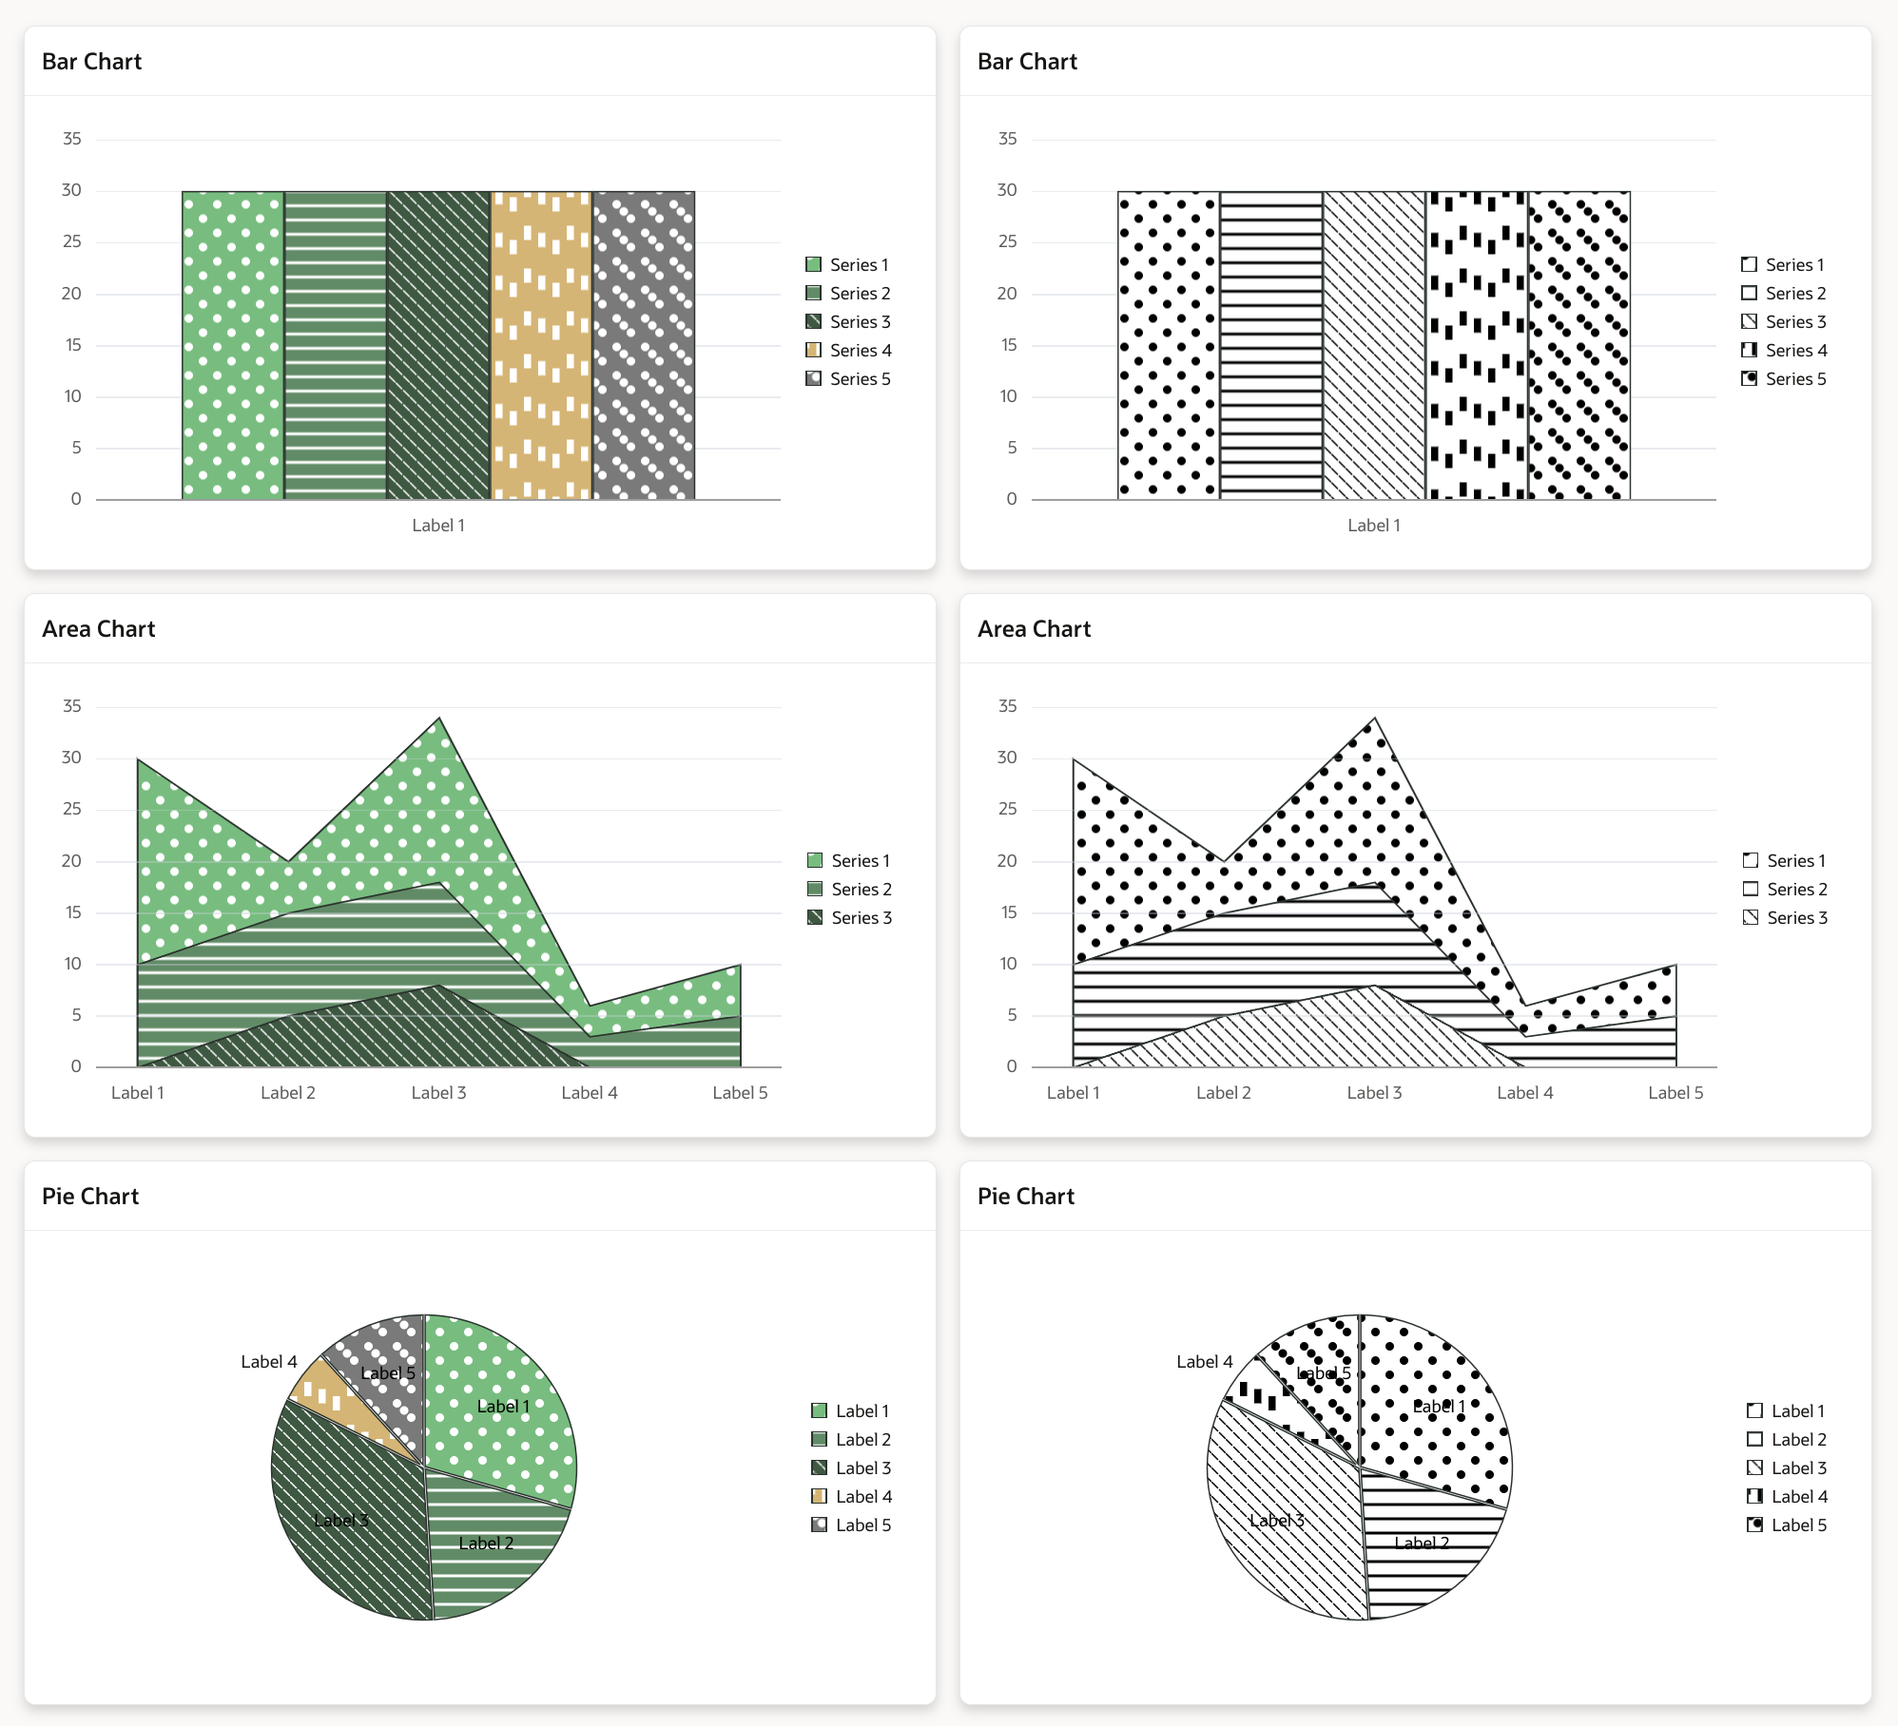
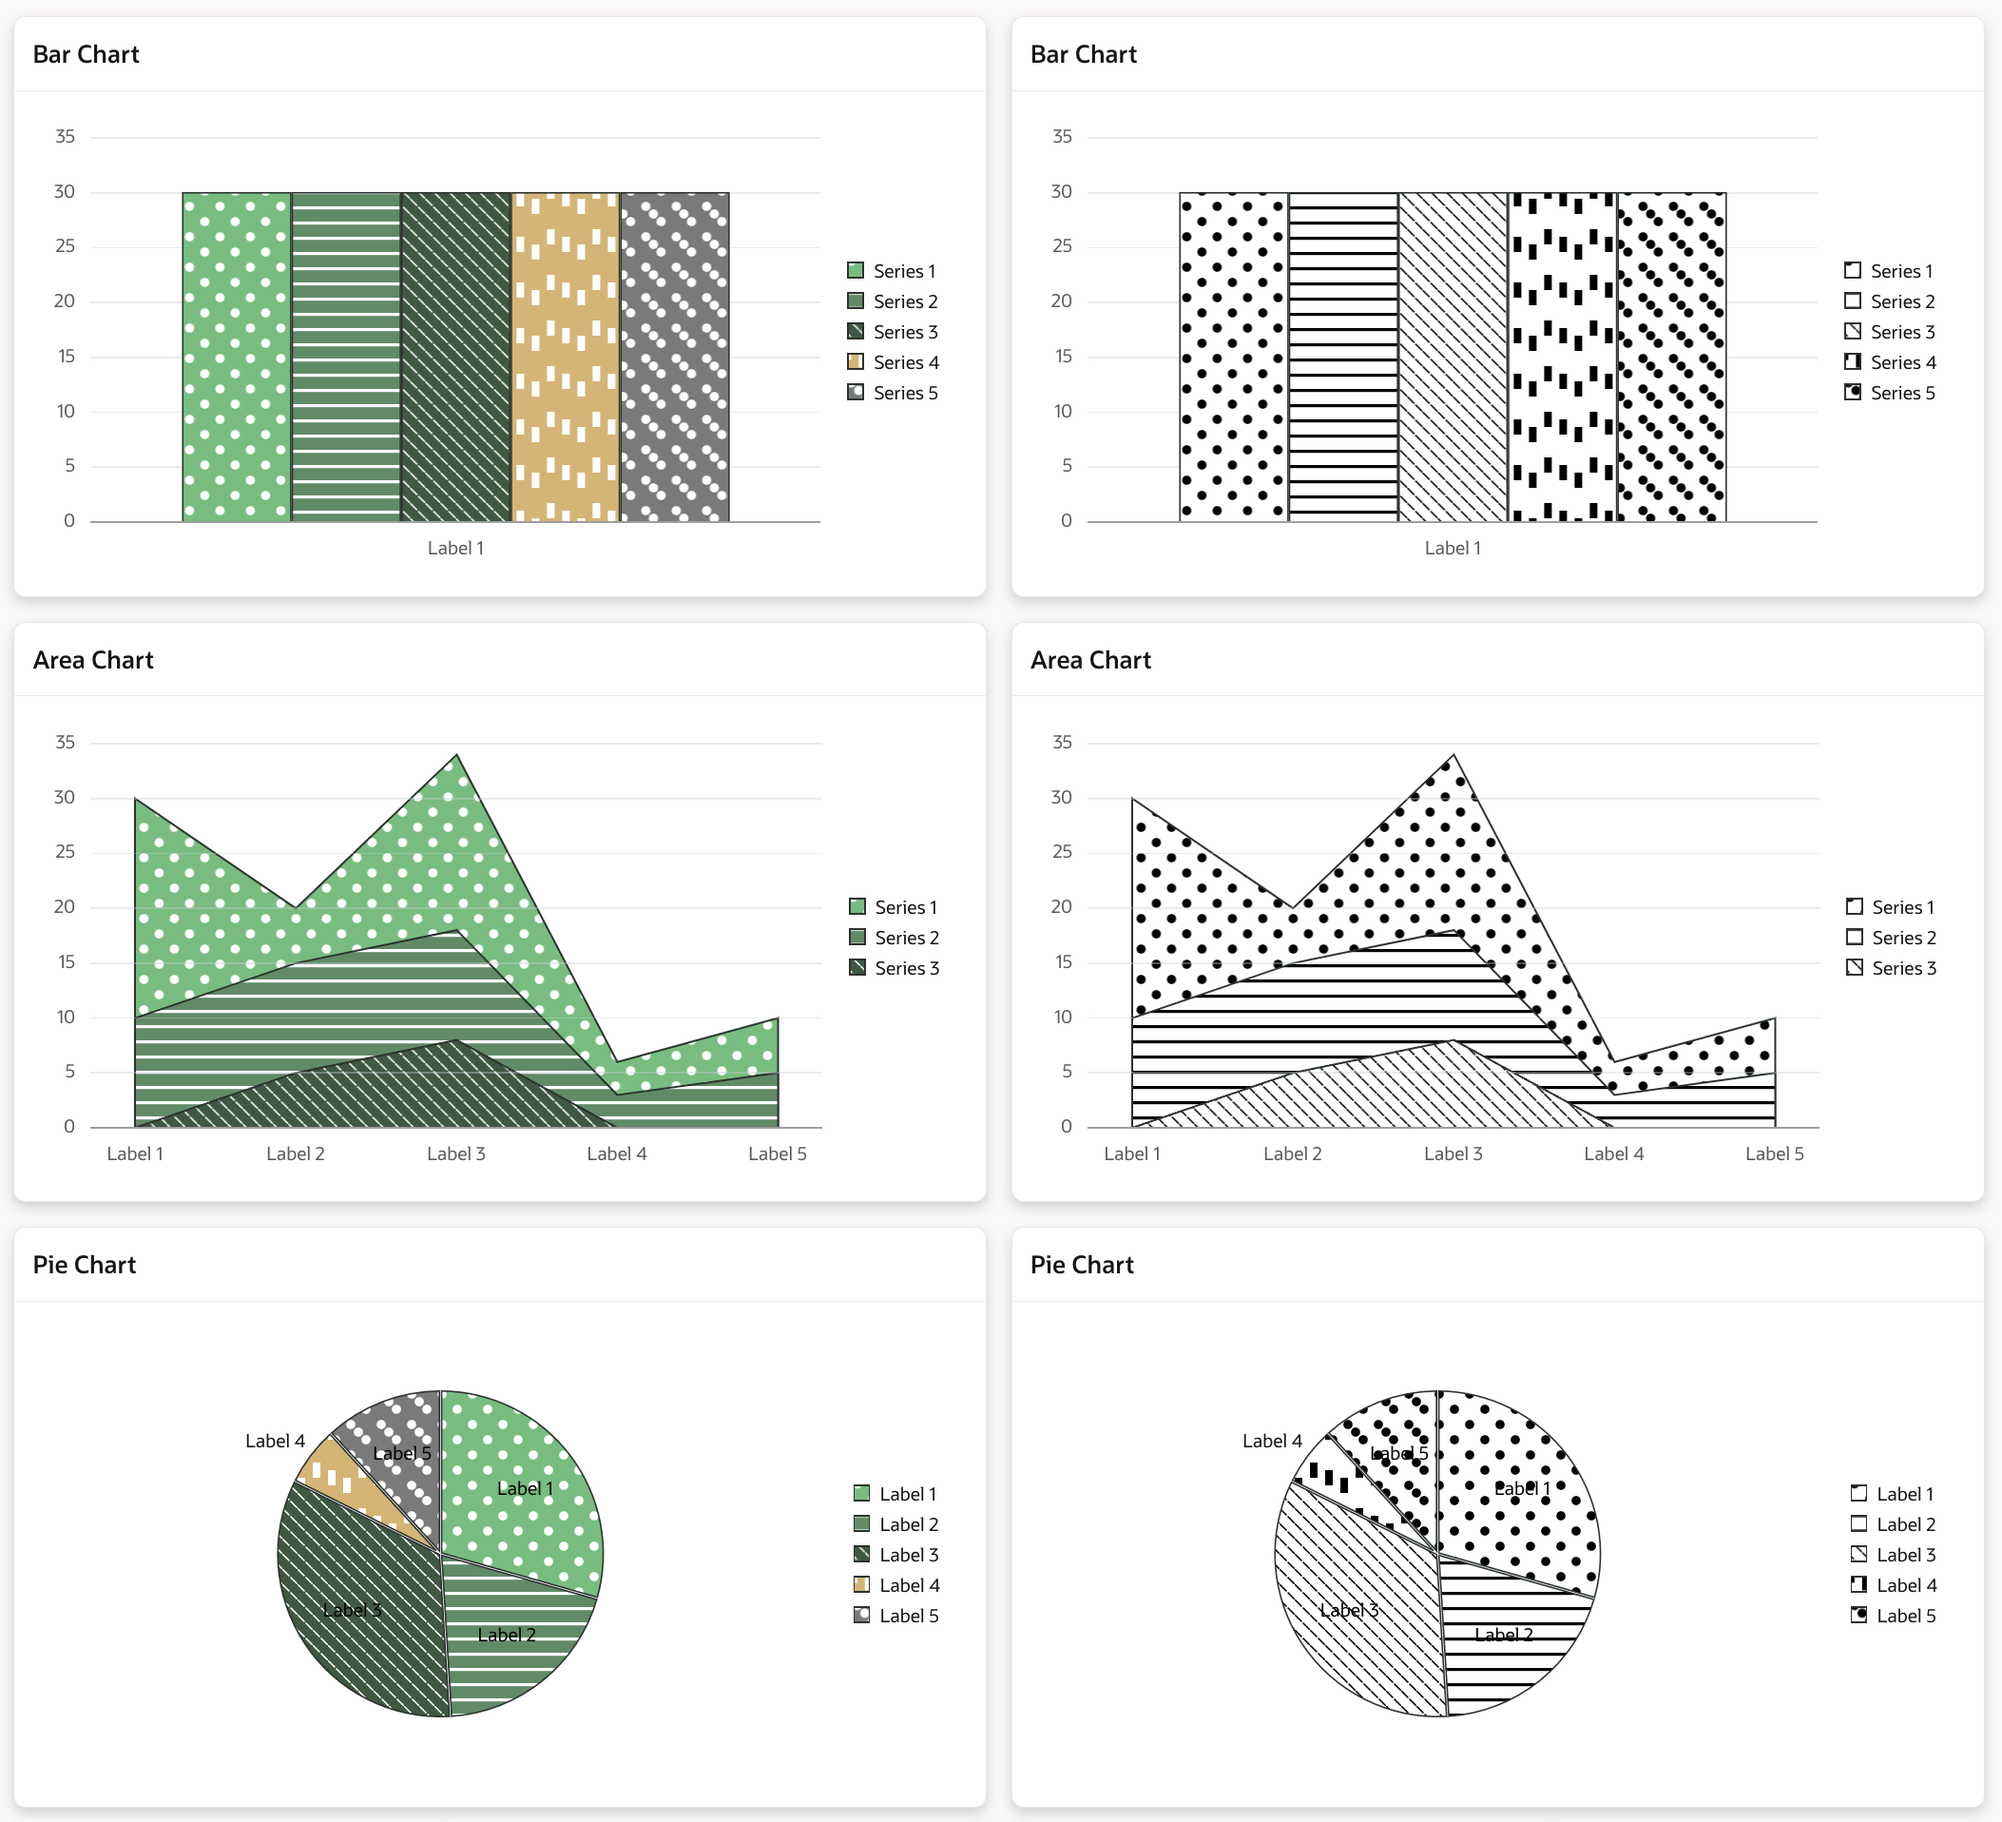
Colors and screenshots update

diff --git a/dist/apex-chart-patterns.js b/dist/apex-chart-patterns.js
@@ -11,7 +11,7 @@ var sienna = ['#F2C777','#7A7A7A','#D9A76A','#733B27','#A6583C'];
 var plum = ['#D97ECA','#4F3F59','#7E688C','#F2C777','#7A7A7A'];
 var sky = ['#065F73','#248EA6','#29C7D9','#F2C777','#7A7A7A'];
 //Adobe kuler random
-var kuler1 = ['#065F73','#248EA6','#29C7D9','#F2C777','#BDBDBD'];
+var kuler1 = ['#DB9140','#C940DB','#8EDB40','#40B1DB','#6D8654'];
 
 var colorPalette = pine;
 var patternsMinimal = [
@@ -49,8 +49,8 @@ var patternsMinimal = [
     "patternUnits": "userSpaceOnUse",
     "elements": [
       { "type": "rect", "width": "100%", "height": "100%", "fill": "#FFFFFF" },
-      { "type": "line", "x1": "0", "y1": "0", "x2": "12", "y2": "12", "stroke": "#ffffff", "stroke-width": "1" },
-      { "type": "line", "x1": "12", "y1": "0", "x2": "0", "y2": "12", "stroke": colorPalette[2], "stroke-width": "1" }
+      { "type": "line", "x1": "0", "y1": "0", "x2": "12", "y2": "12", "stroke": colorPalette[2], "stroke-width": "1" },
+      { "type": "line", "x1": "12", "y1": "0", "x2": "0", "y2": "12", "stroke": "#FFFFFF", "stroke-width": "1" }
     ]
   },
   {
